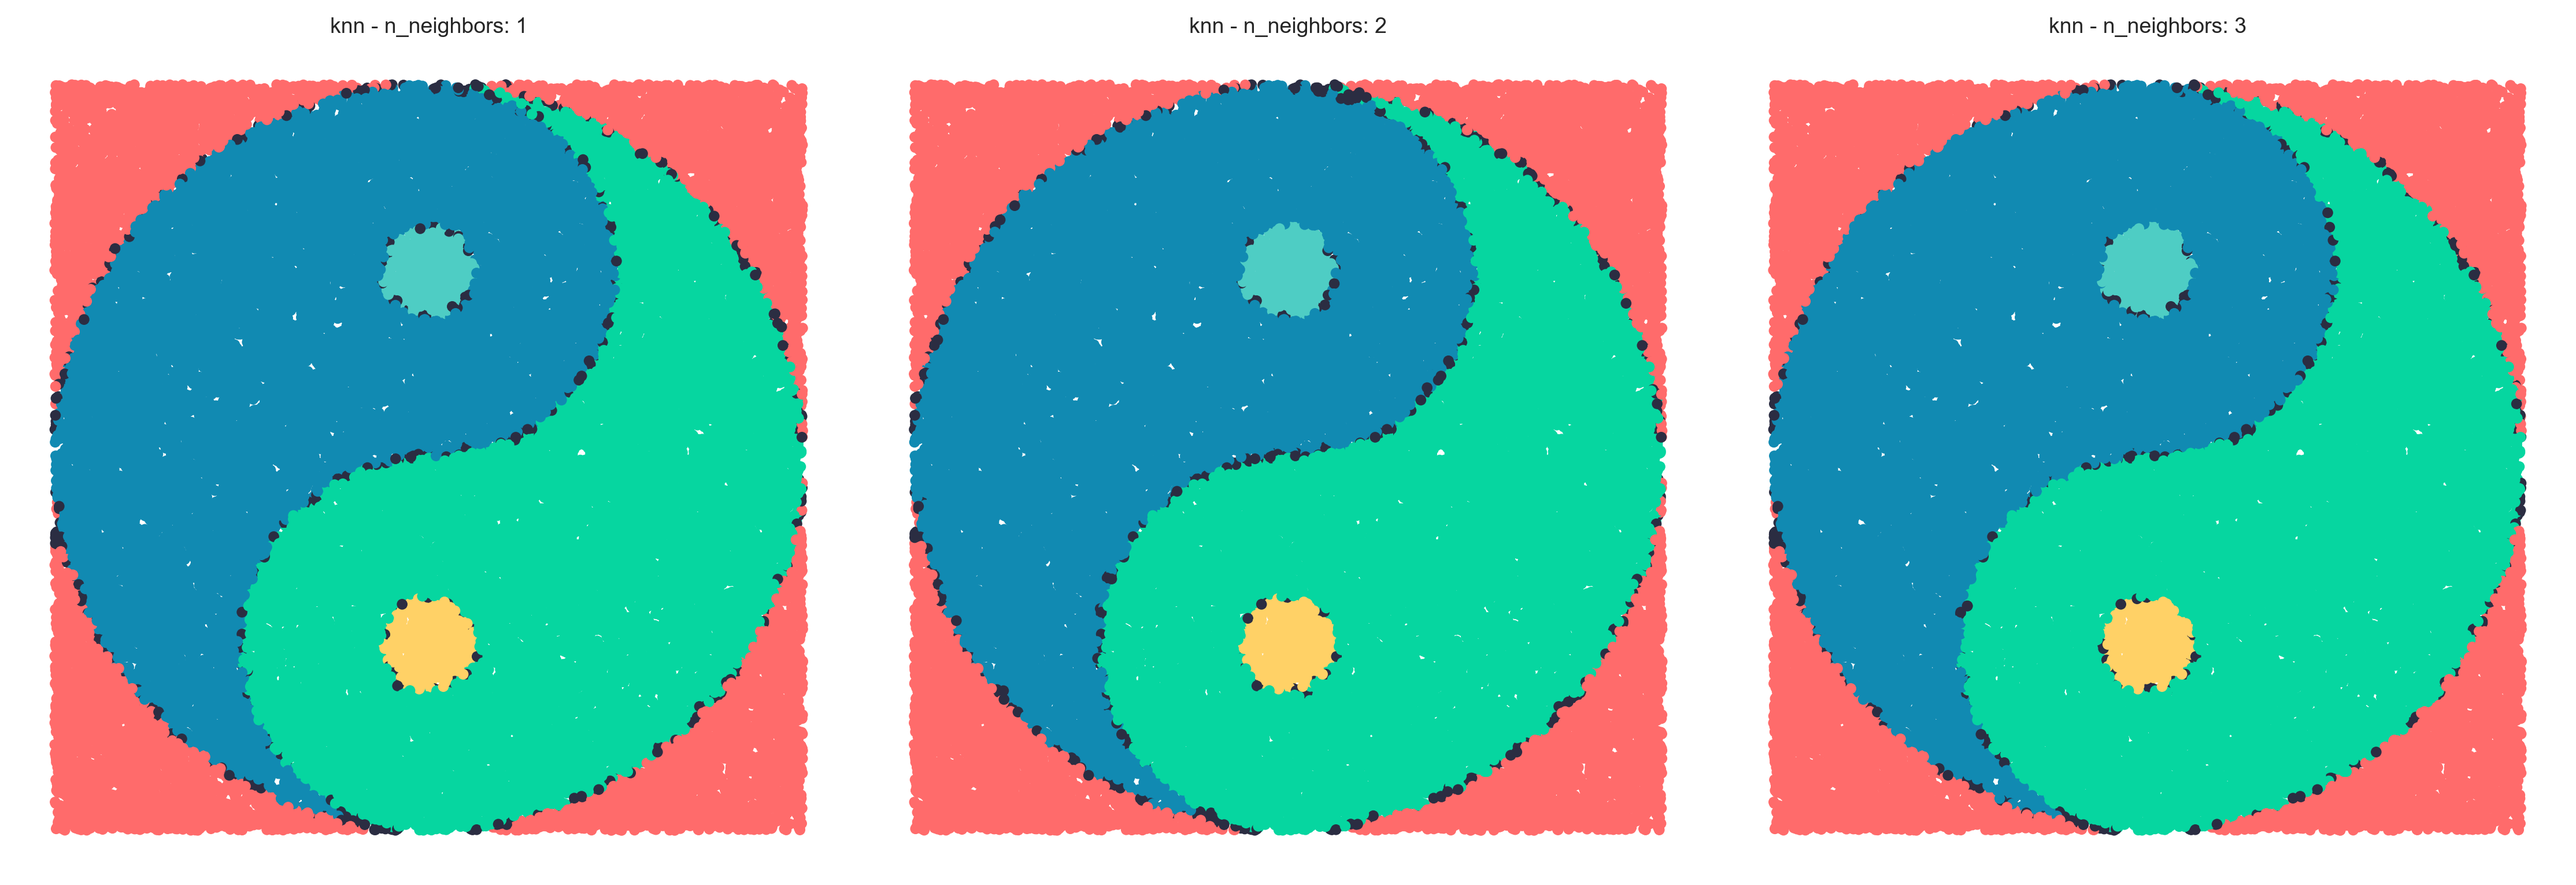
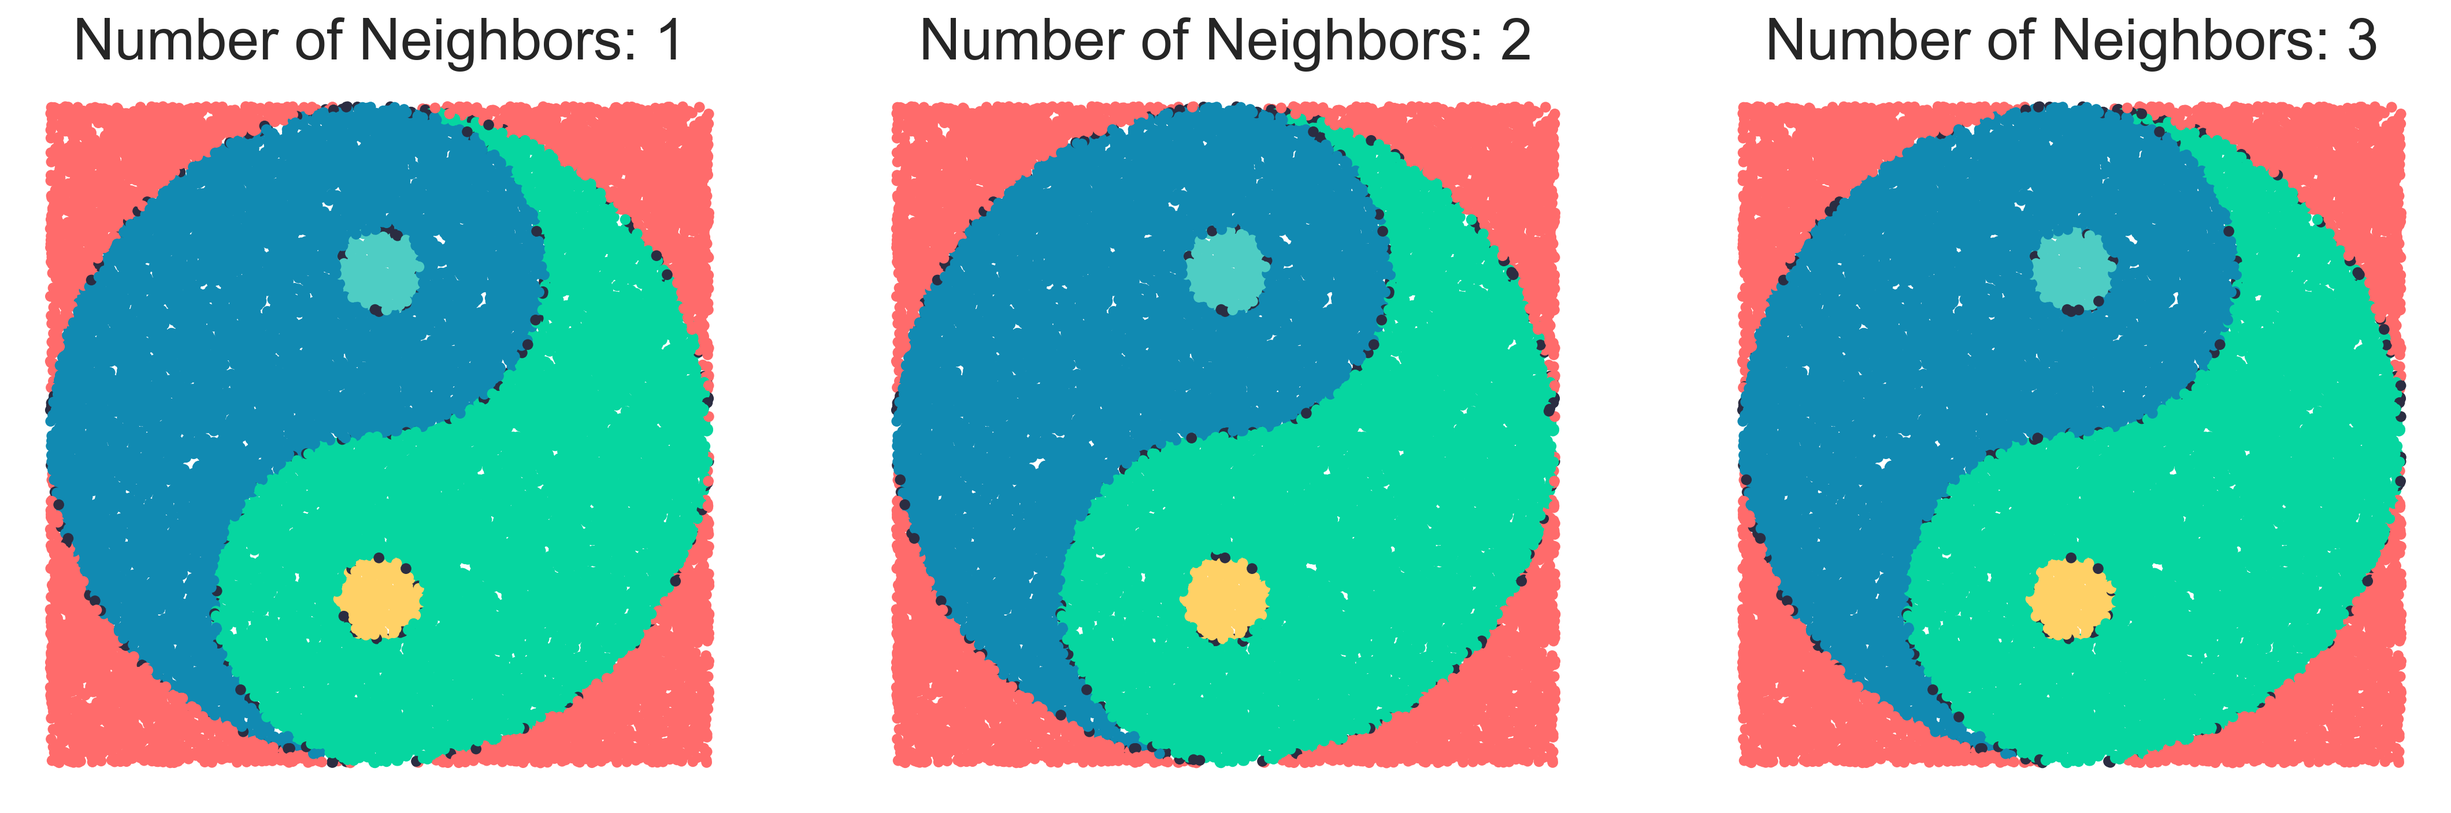
update assets

diff --git a/src/config.py b/src/config.py
@@ -6,13 +6,13 @@ OUTPUT_DIR = "outputs"
 DATA_CONFIG = {
     "n_samples": 50000,
     "radius": 500,
-    "test_size": 0.75,
+    "test_size": 0.5,
 }
 
 # Plot configurations
 PLOT_CONFIG = {
     "style": "white",
-    "font_scale": 0.75,
+    "font_scale": 2,
     "s": 20,
     "edgecolor": "none",
     "aspect": "equal",

diff --git a/README.md b/README.md
@@ -1,26 +1,21 @@
-
-
 MLP<br>
 *This bad boy can fit so many f**king classes in it*
 
 SVM Sigmoid<br>
 *Ew brother ew what's that brother meme*
 
-
 https://dl.acm.org/doi/fullHtml/10.1145/3517343.3517380
-
 
 Results Images:
 
-![knn](outputs/knn.png)
+<img src="outputs/knn.png" alt="knn" width="600">
 
-![mlp](outputs/mlp.png)
+<img src="outputs/mlp1.png" alt="mlp1" width="600">
 
-![random forest](outputs/random_forest.png)
+<img src="outputs/mlp2.png" alt="mlp2" width="600">
 
-![xgboost](outputs/xgboost.png)
+<img src="outputs/random_forest.png" alt="random forest" width="600">
 
-![svm](outputs/svm.png)
+<img src="outputs/xgboost.png" alt="xgboost" width="600">
 
-
-
+<img src="outputs/svm.png" alt="svm" width="600">
